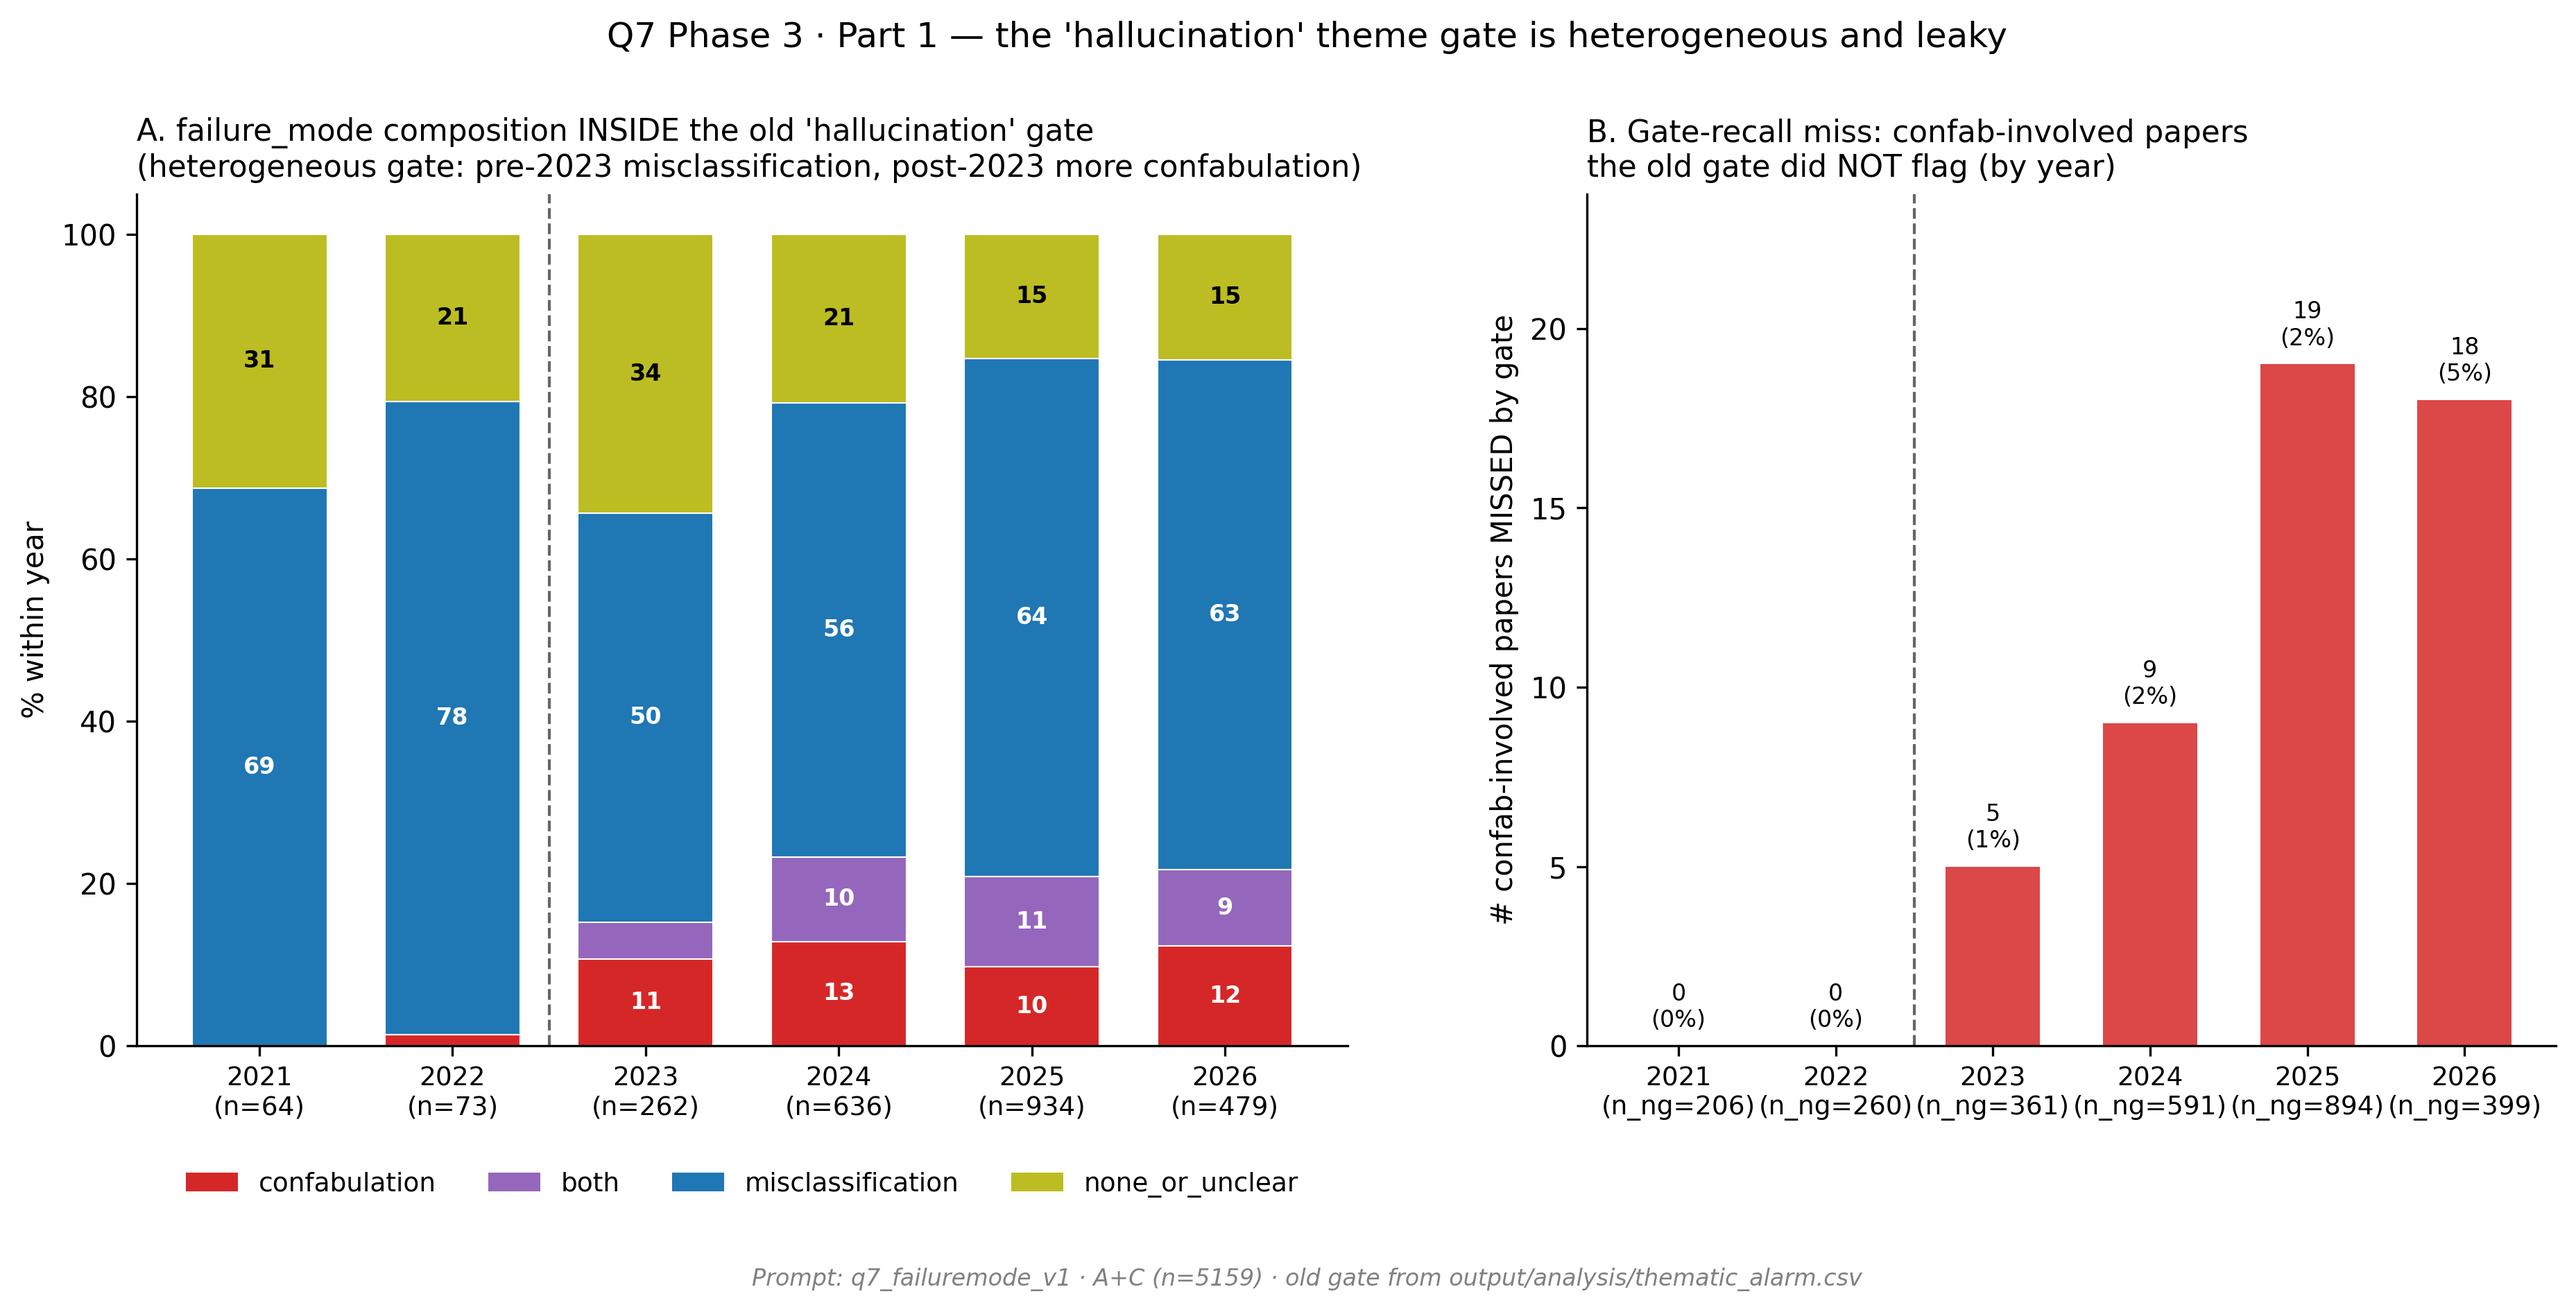
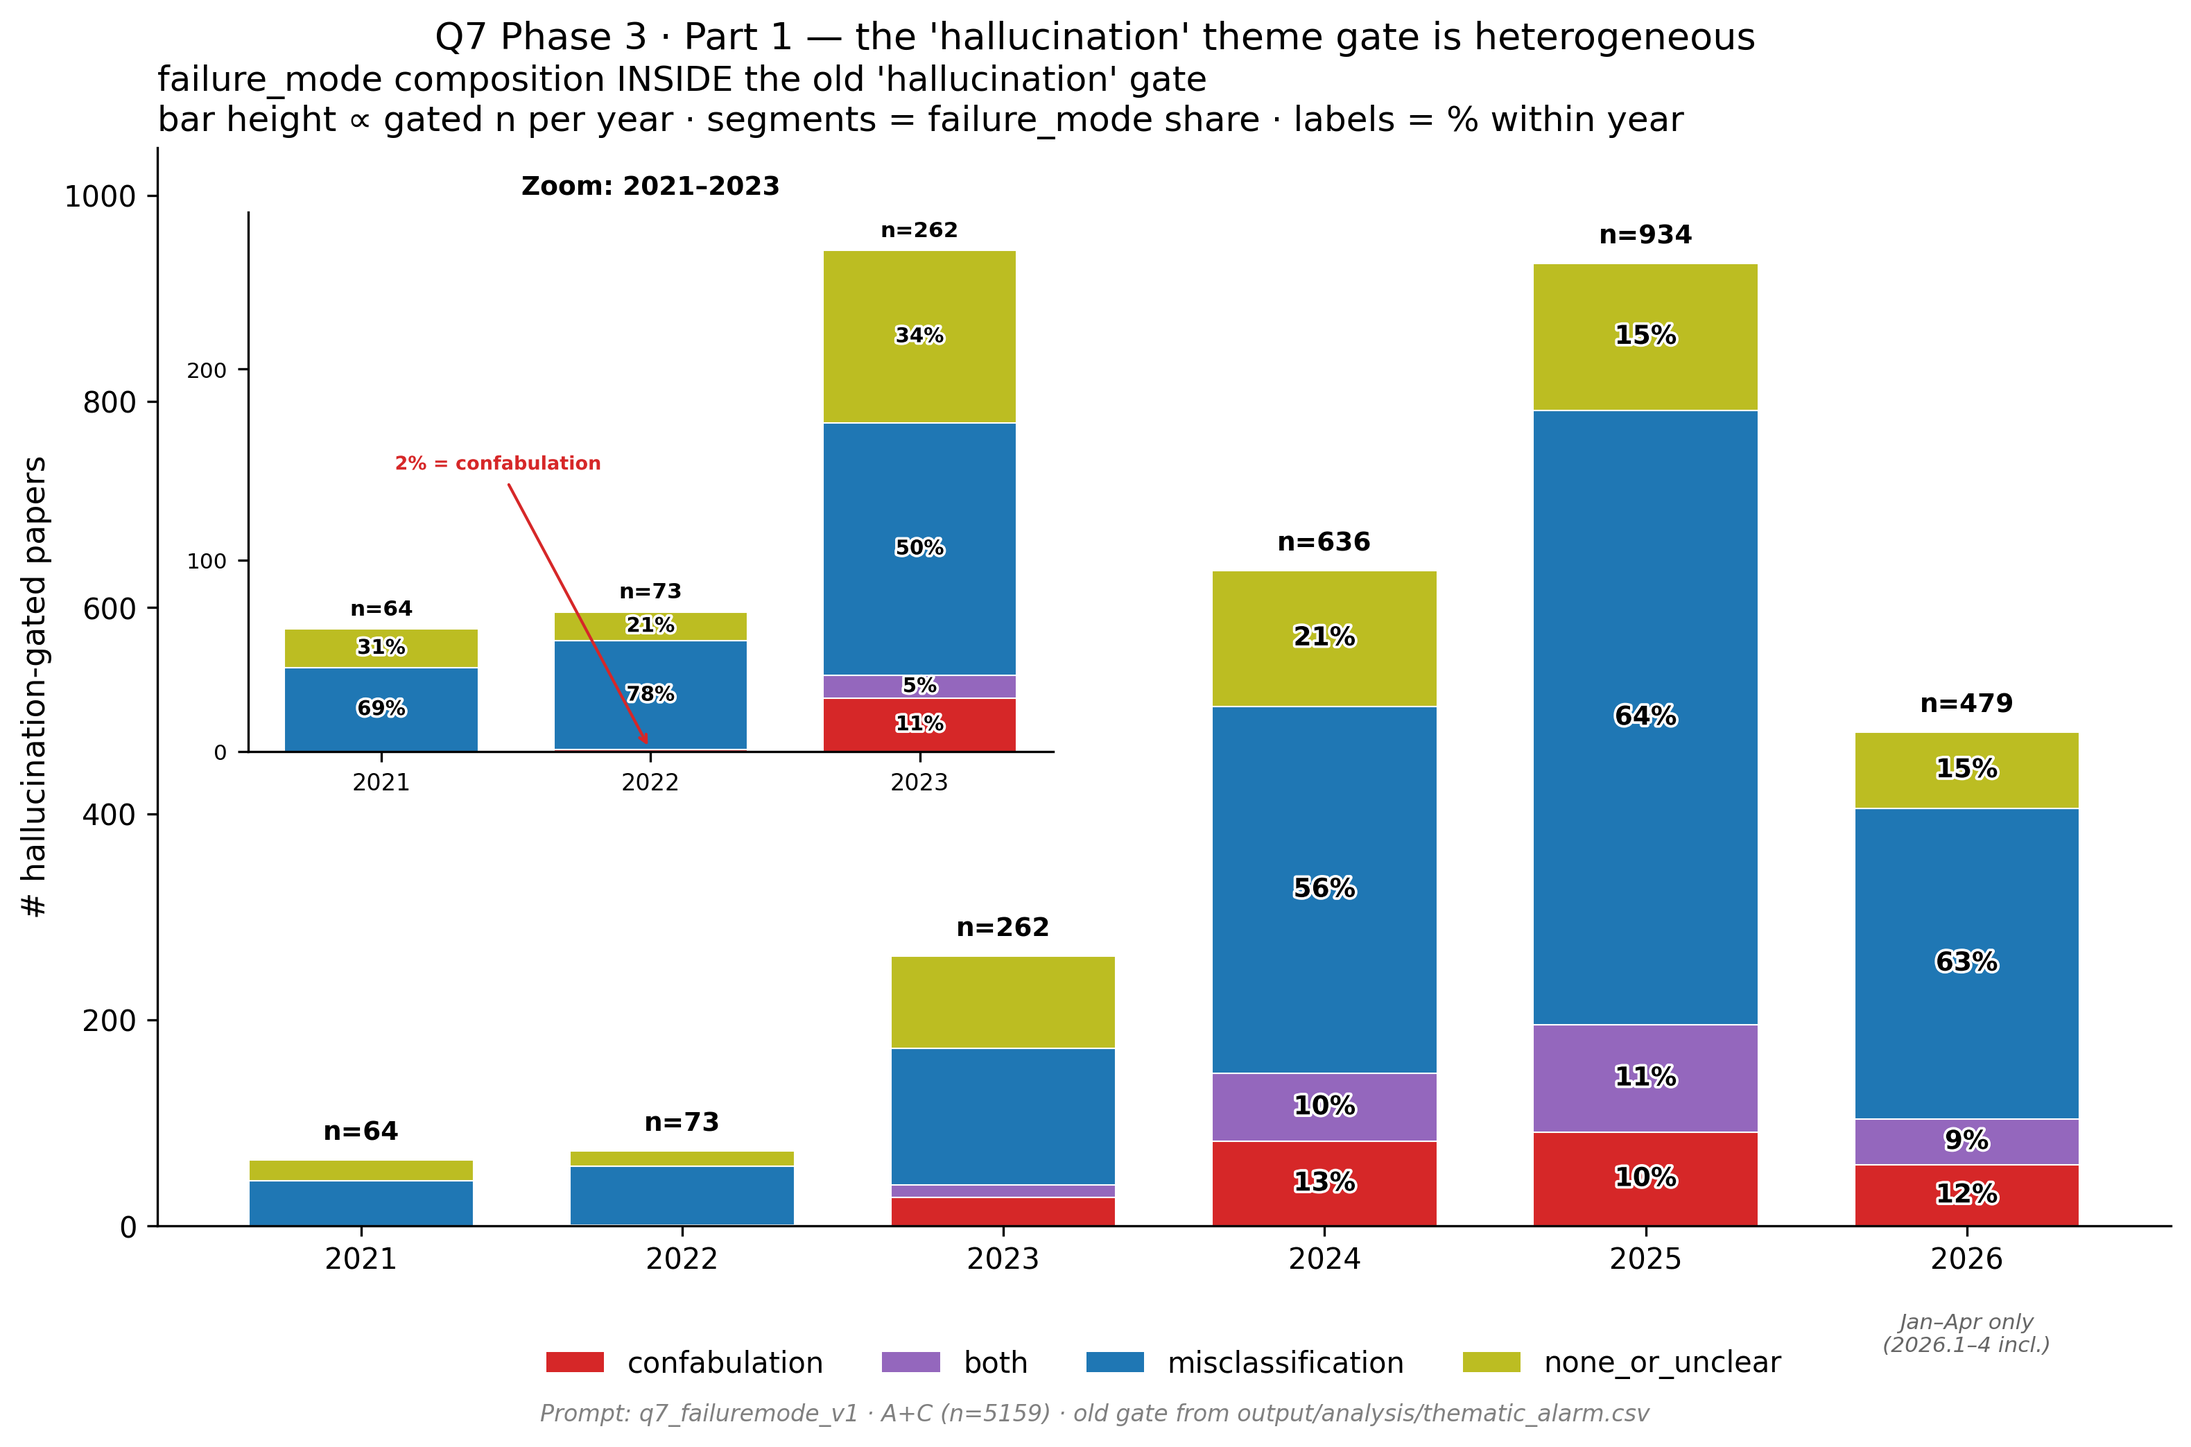
S5-12: gate-composition figure — single enlarged panel, count-scaled bars
Reworked q7_gate_composition into a single, larger panel (dropped the panel-B
gate-recall bars; those numbers live in the Part 1 text/CSV). Panel A now uses
stacked COUNTS so bar height ∝ that year's gated n (2021=56 … 2025=883), with an
enlarged upper-left inset (Zoom 2021–2023, y-ticks 0/100/200) so the small early
years' composition stays readable. Repositioned the inset clear of the 2024 bar.

Legibility: all % and n= labels are now black with a white halo (path_effects),
readable on every segment colour. Added a red "2% = confabulation" leader arrow
to the 2022 slice (too thin to read its colour), and a "Jan–Apr only
(2026.1–4 incl.)" partial-year note under 2026. Removed the ChatGPT divider line
(covered in the manuscript text).

Regenerated both the abstract-present and full-corpus twins.

diff --git a/q7_phase3_analyses.py b/q7_phase3_analyses.py
@@ -102,50 +102,87 @@ print(f"\nTotal confab-involved papers MISSED by the old gate: {total_missed} "
       f"{ac[(ac.confab_inv==1)&(ac.hallu_gate==1)].shape[0]}/{ac[ac.confab_inv==1].shape[0]} "
       f"= {ac[(ac.confab_inv==1)&(ac.hallu_gate==1)].shape[0]/ac[ac.confab_inv==1].shape[0]*100:.1f}%.")
 
-# ── Figure 1: gate composition ───────────────────────────────────────────────
+# ── Figure 1: gate composition (single enlarged panel) ───────────────────────
 from matplotlib.patches import Patch
-fig, (axL, axR) = plt.subplots(1, 2, figsize=(15, 6.4), gridspec_kw={"width_ratios":[1.25,1]})
-fig.subplots_adjust(top=0.84, bottom=0.20, wspace=0.22)
+import matplotlib.patheffects as pe
+HALO = [pe.withStroke(linewidth=1.8, foreground="white")]   # black text stays legible on any colour
+fig, axL = plt.subplots(figsize=(11, 7.2))
+fig.subplots_adjust(top=0.88, bottom=0.16, left=0.09, right=0.97)
 x = np.arange(len(YEARS))
 FM_COL = {"confabulation":"#d62728","both":"#9467bd",
           "misclassification":"#1f77b4","none_or_unclear":"#bcbd22"}
 order = ["confabulation","both","misclassification","none_or_unclear"]
+# stacked COUNTS: bar height = that year's gated n (∝ volume); segment
+# proportions still show the failure_mode composition. Labels give the % within
+# the year so composition stays readable.
+year_tot = np.array([int(ct[y].sum()) for y in YEARS])
 bottom = np.zeros(len(YEARS))
 for fm in order:
-    vals = pct.loc[fm, YEARS].values
-    axL.bar(x, vals, bottom=bottom, color=FM_COL[fm], width=0.7,
+    cnt = ct.loc[fm, YEARS].values.astype(float)
+    pc  = pct.loc[fm, YEARS].values
+    axL.bar(x, cnt, bottom=bottom, color=FM_COL[fm], width=0.7,
             edgecolor="white", linewidth=0.5, label=fm)
-    for j,v in enumerate(vals):
-        if v >= 5:
-            axL.text(j, bottom[j]+v/2, f"{v:.0f}", ha="center", va="center",
-                     fontsize=8, color="white" if fm!="none_or_unclear" else "black",
-                     fontweight="bold")
-    bottom += vals
-axL.axvline(2-0.5, color="black", ls="--", lw=1, alpha=0.6)
-axL.set_xticks(x); axL.set_xticklabels([f"{y}\n(n={int(ct[y].sum())})" for y in YEARS], fontsize=9)
-axL.set_ylim(0,105); axL.set_ylabel("% within year")
-axL.set_title("A. failure_mode composition INSIDE the old 'hallucination' gate\n"
-              "(heterogeneous gate: pre-2023 misclassification, post-2023 more confabulation)",
-              fontsize=10.5, loc="left")
+    for j in range(len(YEARS)):
+        # main bars: label % only for 2024–2026 (j>=3); 2021–2023 read from inset
+        if pc[j] >= 8 and j >= 3:
+            axL.text(j, bottom[j]+cnt[j]/2, f"{pc[j]:.0f}%", ha="center", va="center",
+                     fontsize=9, color="black", fontweight="bold", path_effects=HALO)
+    bottom += cnt
+YTOP = year_tot.max()*1.12
+# total-n label atop each bar
+for j in range(len(YEARS)):
+    axL.text(j, year_tot[j] + year_tot.max()*0.015, f"n={year_tot[j]}",
+             ha="center", va="bottom", fontsize=9, color="black", fontweight="bold")
+axL.set_xticks(x); axL.set_xticklabels(YEARS, fontsize=10)
+# 2026 is a partial year (corpus ends Apr 2026)
+axL.annotate("Jan–Apr only\n(2026.1–4 incl.)", xy=(5, 0), xytext=(0, -30),
+             textcoords="offset points", ha="center", va="top", fontsize=7.5,
+             color="0.4", style="italic", annotation_clip=False)
+axL.set_ylim(0, YTOP); axL.set_ylabel("# hallucination-gated papers", fontsize=11)
+axL.set_title("failure_mode composition INSIDE the old 'hallucination' gate\n"
+              "bar height ∝ gated n per year · segments = failure_mode share · labels = % within year",
+              fontsize=12, loc="left")
 for s in ("top","right"): axL.spines[s].set_visible(False)
 
-axR.bar(x, rec["n_confab"].values, color="#d62728", width=0.6, alpha=0.85)
-for j,(n,p) in enumerate(zip(rec["n_confab"].values, rec["pct_confab"].values)):
-    axR.text(j, n+0.4, f"{int(n)}\n({p:.0f}%)", ha="center", va="bottom", fontsize=8)
-axR.axvline(2-0.5, color="black", ls="--", lw=1, alpha=0.6)
-axR.set_xticks(x); axR.set_xticklabels([f"{y}\n(n_ng={int(rec['n_notgated'][y])})" for y in YEARS], fontsize=9)
-axR.set_ylabel("# confab-involved papers MISSED by gate")
-axR.set_ylim(0, max(rec["n_confab"].max()*1.25, 5))
-axR.set_title("B. Gate-recall miss: confab-involved papers\nthe old gate did NOT flag (by year)",
-              fontsize=10.5, loc="left")
-for s in ("top","right"): axR.spines[s].set_visible(False)
-# shared failure_mode legend BELOW panel A, outside the bars (no occlusion)
+# ── inset: zoom on the small early years so their composition is readable ─────
+ins = axL.inset_axes([0.045, 0.44, 0.40, 0.50])   # upper-left, clear of the 2024 bar
+zoom_years = ["2021", "2022", "2023"]
+zx = np.arange(len(zoom_years))
+zbottom = np.zeros(len(zoom_years))
+for fm in order:
+    zc = ct.loc[fm, zoom_years].values.astype(float)
+    zp = pct.loc[fm, zoom_years].values
+    ins.bar(zx, zc, bottom=zbottom, color=FM_COL[fm], width=0.72,
+            edgecolor="white", linewidth=0.5)
+    for j in range(len(zoom_years)):
+        if zp[j] >= 1.5:   # label ALL non-trivial segments (incl. the ~2% slices)
+            ins.text(j, zbottom[j]+zc[j]/2, f"{zp[j]:.0f}%", ha="center", va="center",
+                     fontsize=7, color="black", fontweight="bold", path_effects=HALO)
+    zbottom += zc
+ztot = np.array([int(ct[y].sum()) for y in zoom_years])
+for j in range(len(zoom_years)):
+    ins.text(j, ztot[j] + ztot.max()*0.02, f"n={ztot[j]}",
+             ha="center", va="bottom", fontsize=7.5, color="black", fontweight="bold")
+# call out that 2022's 2% slice is confabulation (too thin to read the colour)
+_conf22 = ct.loc["confabulation", "2022"]
+ins.annotate("2% = confabulation", xy=(1, _conf22/2), xytext=(0.05, 150),
+             fontsize=6.5, ha="left", va="center", color="#d62728", fontweight="bold",
+             path_effects=HALO,
+             arrowprops=dict(arrowstyle="->", color="#d62728", lw=1.0, shrinkB=2))
+ins.set_xticks(zx); ins.set_xticklabels(zoom_years, fontsize=8)
+ins.set_ylim(0, ztot.max()+20)
+ins.set_yticks([0, 100, 200])
+ins.tick_params(axis="y", labelsize=7.5)
+ins.set_title("Zoom: 2021–2023", fontsize=9, fontweight="bold")
+for s in ("top","right"): ins.spines[s].set_visible(False)
+
+# failure_mode legend BELOW the panel, outside the bars (no occlusion)
 handles = [Patch(facecolor=FM_COL[fm], label=fm) for fm in order]
-axL.legend(handles=handles, fontsize=9, frameon=False, ncol=4,
-           loc="upper center", bbox_to_anchor=(0.5, -0.12))
-fig.suptitle("Q7 Phase 3 · Part 1 — the 'hallucination' theme gate is heterogeneous and leaky",
-             fontsize=12, y=0.97)
-fig.text(0.5, 0.02,
+axL.legend(handles=handles, fontsize=10, frameon=False, ncol=4,
+           loc="upper center", bbox_to_anchor=(0.5, -0.09))
+fig.suptitle("Q7 Phase 3 · Part 1 — the 'hallucination' theme gate is heterogeneous",
+             fontsize=13, y=0.965)
+fig.text(0.5, 0.03,
          "Prompt: q7_failuremode_v1 · A+C (n=%d) · old gate from output/analysis/thematic_alarm.csv"%len(ac),
          ha="center", fontsize=8, style="italic", color="gray")
 f1 = os.path.join(FIGDIR, f"q7_gate_composition{SUF}.png")
